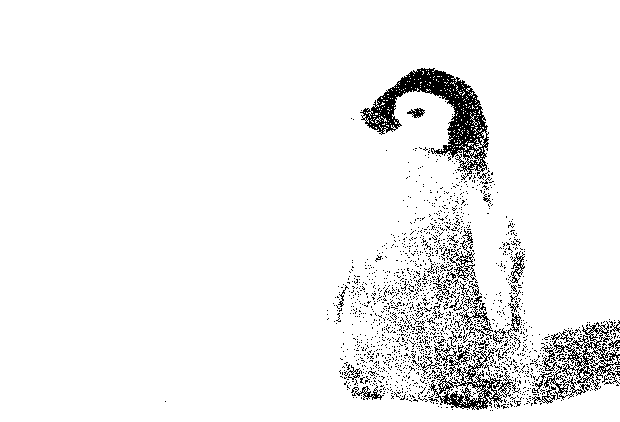
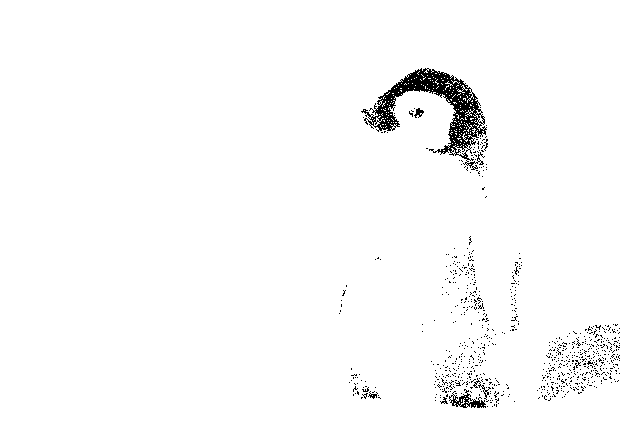
Implement importance sampling

Changed region(s): [[0.521, 0.4929, 1.0, 0.9858], [0.6435, 0.154, 0.7968, 0.4929], [0.5823, 0.2156, 0.6742, 0.3081]]

diff --git a/dither.go b/dither.go
@@ -20,17 +20,17 @@ type ThresholdDitherer struct {
 	threshold uint8
 }
 
-func (dith ThresholdDitherer) apply(gray *image.Gray) *image.Gray {
+func (td ThresholdDitherer) apply(gray *image.Gray) *image.Gray {
 	var (
 		bounds   = gray.Bounds()
 		dithered = image.NewGray(bounds)
 	)
-	for i := 0; i < bounds.Dx(); i++ {
-		for j := 0; j < bounds.Dy(); j++ {
-			if gray.GrayAt(i, j).Y > dith.threshold {
-				dithered.SetGray(i, j, color.Gray{255}) // White
+	for x := bounds.Min.X; x < bounds.Max.X; x++ {
+		for y := bounds.Min.Y; y < bounds.Max.Y; y++ {
+			if gray.GrayAt(x, y).Y > td.threshold {
+				dithered.SetGray(x, y, color.Gray{255}) // White
 			} else {
-				dithered.SetGray(i, j, color.Gray{0}) // Black
+				dithered.SetGray(x, y, color.Gray{0}) // Black
 			}
 		}
 	}
@@ -45,18 +45,18 @@ type RandomThresholdDitherer struct {
 	rng          *rand.Rand
 }
 
-func (dith RandomThresholdDitherer) apply(gray *image.Gray) *image.Gray {
+func (rtd RandomThresholdDitherer) apply(gray *image.Gray) *image.Gray {
 	var (
 		bounds   = gray.Bounds()
 		dithered = image.NewGray(bounds)
 	)
-	for i := 0; i < bounds.Dx(); i++ {
-		for j := 0; j < bounds.Dy(); j++ {
-			var threshold = uint8(dith.rng.Intn(dith.maxThreshold))
-			if gray.GrayAt(i, j).Y > threshold {
-				dithered.SetGray(i, j, color.Gray{255}) // White
+	for x := bounds.Min.X; x < bounds.Max.X; x++ {
+		for y := bounds.Min.Y; y < bounds.Max.Y; y++ {
+			var threshold = uint8(rtd.rng.Intn(rtd.maxThreshold))
+			if gray.GrayAt(x, y).Y > threshold {
+				dithered.SetGray(x, y, color.Gray{255}) // White
 			} else {
-				dithered.SetGray(i, j, color.Gray{0}) // Black
+				dithered.SetGray(x, y, color.Gray{0}) // Black
 			}
 		}
 	}
@@ -71,30 +71,30 @@ type GridDitherer struct {
 	rng   *rand.Rand
 }
 
-func (dith GridDitherer) apply(gray *image.Gray) *image.Gray {
+func (gd GridDitherer) apply(gray *image.Gray) *image.Gray {
 	var (
 		bounds   = gray.Bounds()
 		dithered = MakeGray(bounds, 255)
 		width    = bounds.Dx()
 		height   = bounds.Dy()
 	)
-	for i := 0; i < width; i += dith.k {
-		for j := 0; j < height; j += dith.k {
+	for x := 0; x < width; x += gd.k {
+		for y := 0; y < height; y += gd.k {
 			var (
-				cell = RgbaToGray(gray.SubImage(image.Rect(i, j, i+dith.k, j+dith.k)))
-				mu   = avgIntensity(cell)                // Mean grayscale value of the cell
-				n    = math.Pow((1-mu)*dith.beta, 2) / 3 // Number of points to sample
+				cell = RgbaToGray(gray.SubImage(image.Rect(x, y, x+gd.k, y+gd.k)))
+				mu   = avgIntensity(cell)              // Mean grayscale value of the cell
+				n    = math.Pow((1-mu)*gd.beta, 2) / 3 // Number of points to sample
 			)
-			if n < dith.alpha {
+			if n < gd.alpha {
 				n = 0
 			}
-			for k := 0; k < int(n); k++ {
-				// Sample n random points in belonging to the cell
+			// Sample n random points in belonging to the cell
+			for i := 0; i < int(n); i++ {
 				var (
-					x = randInt(i, min(i+dith.k, width), dith.rng)
-					y = randInt(j, min(j+dith.k, height), dith.rng)
+					xx = randInt(x, min(x+gd.k, width), gd.rng)
+					yy = randInt(y, min(y+gd.k, height), gd.rng)
 				)
-				dithered.SetGray(x, y, color.Gray{0})
+				dithered.SetGray(xx, yy, color.Gray{0})
 			}
 		}
 	}
@@ -105,30 +105,65 @@ func (dith GridDitherer) apply(gray *image.Gray) *image.Gray {
 // variation of the error diffusion method.
 type FloydSteinbergDitherer struct{}
 
-func (dith FloydSteinbergDitherer) apply(gray *image.Gray) *image.Gray {
+func (fsd FloydSteinbergDitherer) apply(gray *image.Gray) *image.Gray {
 	var (
 		bounds   = gray.Bounds()
-		width    = bounds.Dx()
-		height   = bounds.Dy()
 		dithered = copyGray(gray)
 	)
-	for j := 0; j < height; j++ { // Top to bottom
-		for i := 0; i < width; i++ { // Left to right
-			var oldPixel = dithered.GrayAt(i, j)
+	for y := bounds.Min.Y; y < bounds.Max.Y; y++ { // Top to bottom
+		for x := bounds.Min.X; x < bounds.Max.X; x++ { // Left to right
+			var oldPixel = dithered.GrayAt(x, y)
 			// Set the pixel to black or white
 			var newPixel = color.Gray{0} // Black
 			if oldPixel.Y > 127 {
 				newPixel = color.Gray{255} // White
 			}
-			dithered.SetGray(i, j, newPixel)
+			dithered.SetGray(x, y, newPixel)
 			// Determine the quantization error
 			var quant = (int16(oldPixel.Y) - int16(newPixel.Y)) / 16
 			// Spread the quantization error
-			dithered.SetGray(i+1, j, color.Gray{i16ToUI8(int16(dithered.GrayAt(i+1, j).Y) + 7*quant)})
-			dithered.SetGray(i-1, j+1, color.Gray{i16ToUI8(int16(dithered.GrayAt(i-1, j+1).Y) + 3*quant)})
-			dithered.SetGray(i, j+1, color.Gray{i16ToUI8(int16(dithered.GrayAt(i, j+1).Y) + 5*quant)})
-			dithered.SetGray(i+1, j+1, color.Gray{i16ToUI8(int16(dithered.GrayAt(i+1, j+1).Y) + quant)})
+			dithered.SetGray(x+1, y, color.Gray{i16ToUI8(int16(dithered.GrayAt(x+1, y).Y) + 7*quant)})
+			dithered.SetGray(x-1, y+1, color.Gray{i16ToUI8(int16(dithered.GrayAt(x-1, y+1).Y) + 3*quant)})
+			dithered.SetGray(x, y+1, color.Gray{i16ToUI8(int16(dithered.GrayAt(x, y+1).Y) + 5*quant)})
+			dithered.SetGray(x+1, y+1, color.Gray{i16ToUI8(int16(dithered.GrayAt(x+1, y+1).Y) + quant)})
 		}
+	}
+	return dithered
+}
+
+// ImportanceSampling implements importance sampling.
+type ImportanceSampling struct {
+	n         int   // Number of points to sample
+	threshold uint8 // Threshold after which intensities are ignored (the threshold is not ignored)
+	rng       *rand.Rand
+}
+
+func (is ImportanceSampling) apply(gray *image.Gray) *image.Gray {
+	var (
+		bounds    = gray.Bounds()
+		dithered  = MakeGray(bounds, 255)
+		histogram = make(map[uint8][]image.Point)
+	)
+	// Build histogram
+	for x := bounds.Min.X; x < bounds.Max.X; x++ {
+		for y := bounds.Min.Y; y < bounds.Max.Y; y++ {
+			var intensity = gray.GrayAt(x, y).Y
+			if intensity <= is.threshold {
+				histogram[intensity] = append(histogram[intensity], image.Point{x, y})
+			}
+		}
+	}
+	// Build roulette wheel
+	var roulette = make([]int, is.threshold+1)
+	roulette[0] = 255 * len(histogram[0])
+	for i := 1; i < len(roulette); i++ {
+		roulette[i] = roulette[i-1] + (255-i)*len(histogram[uint8(i)])
+	}
+	// Run the wheel
+	for i := 0; i < is.n; i++ {
+		var bin = uint8(binarySearchInt(is.rng.Intn(roulette[is.threshold]), roulette))
+		var point = histogram[bin][is.rng.Intn(len(histogram[bin]))]
+		dithered.SetGray(point.X, point.Y, color.Gray{0})
 	}
 	return dithered
 }

diff --git a/voronoi.go b/voronoi.go
@@ -9,16 +9,16 @@ import (
 // A Tessellation is a map of disjoint sets each containing GrayPoints.
 type Tessellation map[image.Point][]image.Point
 
-// BuildVoronoi builds a Voronoi tesselation from a set of generating points.
+// BuildVoronoi builds a Voronoi tessellation from a set of generating points.
 func BuildVoronoi(sites []image.Point, bounds image.Rectangle) Tessellation {
 	var tess = make(Tessellation)
 	for _, site := range sites {
 		tess[site] = []image.Point{}
 	}
-	for i := 0; i < bounds.Dx(); i++ {
-		for j := 0; j < bounds.Dy(); j++ {
+	for x := bounds.Min.X; x < bounds.Max.X; x++ {
+		for y := bounds.Min.Y; y < bounds.Max.Y; y++ {
 			var (
-				point       = image.Point{i, j}
+				point       = image.Point{x, y}
 				closestSite = findClosestPoint(point, sites)
 			)
 			tess[closestSite] = append(tess[closestSite], point)
@@ -30,7 +30,7 @@ func BuildVoronoi(sites []image.Point, bounds image.Rectangle) Tessellation {
 func findClosestPoint(point image.Point, points []image.Point) (closest image.Point) {
 	var min = math.Inf(1)
 	for _, p := range points {
-		var dist = pointDistance(point, p)
+		var dist = euclideanDistance(point, p)
 		if dist < min {
 			min = dist
 			closest = p
@@ -54,27 +54,21 @@ func CalculateCentroids(tess Tessellation, weights *image.Gray) []image.Point {
 }
 
 func calculateCentroid(points []image.Point, weights *image.Gray) (centroid image.Point) {
-	var totalWeight float64
-	var cx float64
-	var cy float64
+	var (
+		totalWeight float64
+		cx          float64
+		cy          float64
+	)
 	for _, point := range points {
-		var weight = float64(weights.GrayAt(point.X, point.Y).Y) + 1
-		cx += float64(point.X) * weight
-		cy += float64(point.Y) * weight
+		var weight = float64(weights.GrayAt(point.X, point.Y).Y)
+		cx += (float64(point.X) + 0.5) * weight
+		cy += (float64(point.Y) + 0.5) * weight
 		totalWeight += weight
 	}
 	cx /= totalWeight
 	cy /= totalWeight
-	if cx-math.Floor(cx) < 0.5 {
-		centroid.X = int(cx)
-	} else {
-		centroid.X = int(cx) + 1
-	}
-	if cy-math.Floor(cy) < 0.5 {
-		centroid.Y = int(cy)
-	} else {
-		centroid.Y = int(cy) + 1
-	}
+	centroid.X = int(cx)
+	centroid.Y = int(cy)
 	return
 }
 
@@ -94,7 +88,7 @@ func DrawTessallationRegions(tess Tessellation, bounds image.Rectangle) image.Im
 
 // DrawTessallationSites draws tessallation sites.
 func DrawTessallationSites(tess Tessellation, bounds image.Rectangle) image.Image {
-	var img = image.NewNRGBA(bounds)
+	var img = MakeGray(bounds, 255)
 	for site := range tess {
 		img.Set(site.X, site.Y, color.Black)
 	}

diff --git a/main.go b/main.go
@@ -24,8 +24,8 @@ func main() {
 	//SaveImagePNG(td, "screenshots/threshold_dithering.png")
 
 	// Random threshold dithering
-	var rtd = RandomThresholdDitherer{155, rng}.apply(gray)
-	SaveImagePNG(rtd, "screenshots/random_threshold_dithering.png")
+	//var rtd = RandomThresholdDitherer{100, rng}.apply(gray)
+	//SaveImagePNG(rtd, "screenshots/random_threshold_dithering.png")
 
 	// Bosch and Herman’s grid-based dithering
 	//var gd = GridDitherer{5, 3, 8, rng}.apply(gray)
@@ -35,24 +35,28 @@ func main() {
 	//var fsd = FloydSteinbergDitherer{}.apply(gray)
 	//SaveImagePNG(fsd, "screenshots/floyd_steinberg_dithering.png")
 
-	var sites = ExtractPoints(rtd, 0, 0)
-	var voronoi = BuildVoronoi(sites, gray.Bounds())
+	// Importance sampling
+	var is = ImportanceSampling{n: 5000, threshold: 150, rng: rng}.apply(gray)
+	SaveImagePNG(is, "screenshots/importance_sampling.png")
 
-	var vr = DrawTessallationRegions(voronoi, gray.Bounds())
-	SaveImagePNG(vr, "screenshots/voronoi_regions.png")
+	//var sites = ExtractPoints(rtd, 0, 1)
+	//var voronoi = BuildVoronoi(sites, gray.Bounds())
 
-	var vs = DrawTessallationSites(voronoi, gray.Bounds())
-	SaveImagePNG(vs, "screenshots/voronoi_sites.png")
+	// var vr = DrawTessallationRegions(voronoi, gray.Bounds())
+	// SaveImagePNG(vr, "screenshots/voronoi_regions.png")
 
-	var weights = gray
-	for i := 0; i < 20; i++ {
-		var centroids = CalculateCentroids(voronoi, weights)
-		voronoi = BuildVoronoi(centroids, gray.Bounds())
-	}
+	// var vs = DrawTessallationSites(voronoi, gray.Bounds())
+	// SaveImagePNG(vs, "screenshots/voronoi_sites.png")
 
-	var cvr = DrawTessallationRegions(voronoi, gray.Bounds())
-	SaveImagePNG(cvr, "screenshots/centroidal_voronoi_regions.png")
+	//var weights = InvertGray(gray)
+	//for i := 0; i < 200; i++ {
+	//	var centroids = CalculateCentroids(voronoi, weights)
+	//	voronoi = BuildVoronoi(centroids, gray.Bounds())
+	//}
 
-	var cvs = DrawTessallationSites(voronoi, gray.Bounds())
-	SaveImagePNG(cvs, "screenshots/centroidal_voronoi_sites.png")
+	//var cvr = DrawTessallationRegions(voronoi, gray.Bounds())
+	//SaveImagePNG(cvr, "screenshots/centroidal_voronoi_regions.png")
+
+	//var cvs = DrawTessallationSites(voronoi, gray.Bounds())
+	//SaveImagePNG(cvs, "screenshots/centroidal_voronoi_sites.png")
 }

diff --git a/gray.go b/gray.go
@@ -49,12 +49,12 @@ func copyGray(gray *image.Gray) *image.Gray {
 // intensity to 255. Thus 0 (black) becomes 255 (white) and vice versa.
 func InvertGray(gray *image.Gray) *image.Gray {
 	var (
-		reverse = copyGray(gray)
-		bounds  = reverse.Bounds()
+		bounds  = gray.Bounds()
+		reverse = MakeGray(bounds, 0)
 	)
 	for x := bounds.Min.X; x < bounds.Max.X; x++ {
 		for y := bounds.Min.Y; y < bounds.Max.Y; y++ {
-			reverse.SetGray(x, y, color.Gray{255 - reverse.GrayAt(x, y).Y})
+			reverse.SetGray(x, y, color.Gray{255 - gray.GrayAt(x, y).Y})
 		}
 	}
 	return reverse
@@ -88,10 +88,10 @@ func makeGrayHistogram(gray *image.Gray) GrayHistogram {
 	for i := 0; i <= 255; i++ {
 		hist[uint8(i)] = []image.Point{}
 	}
-	for i := bounds.Min.X; i < bounds.Max.X; i++ {
-		for j := bounds.Min.Y; j < bounds.Max.Y; j++ {
-			var intensity = gray.GrayAt(i, j).Y
-			hist[intensity] = append(hist[intensity], image.Point{i, j})
+	for x := bounds.Min.X; x < bounds.Max.X; x++ {
+		for y := bounds.Min.Y; y < bounds.Max.Y; y++ {
+			var intensity = gray.GrayAt(x, y).Y
+			hist[intensity] = append(hist[intensity], image.Point{x, y})
 		}
 	}
 	return hist

diff --git a/util.go b/util.go
@@ -83,7 +83,33 @@ func square(x int) int {
 	return x * x
 }
 
-// pointDistance calculates the L2 distance between two points.
-func pointDistance(a, b image.Point) float64 {
+// euclideanDistance calculates the L2 distance between two points.
+func euclideanDistance(a, b image.Point) float64 {
 	return math.Pow(float64(square(b.X-a.X)+square(b.Y-a.Y)), 0.5)
+}
+
+// binarySearchInt searches for the index of the first value in a sorted slice which is above a
+// given value.
+func binarySearchInt(value int, ints []int) int {
+	var (
+		index = -1
+		a     = 0
+		b     = len(ints) / 2
+		c     = len(ints) - 1
+	)
+
+	for a != b && b != c {
+		if value <= ints[b] {
+			c = b
+			b = (a + c) / 2
+		} else {
+			a = b
+			b = (a + c + 1) / 2
+		}
+		if value <= ints[b] {
+			index = b
+		}
+	}
+
+	return index
 }
